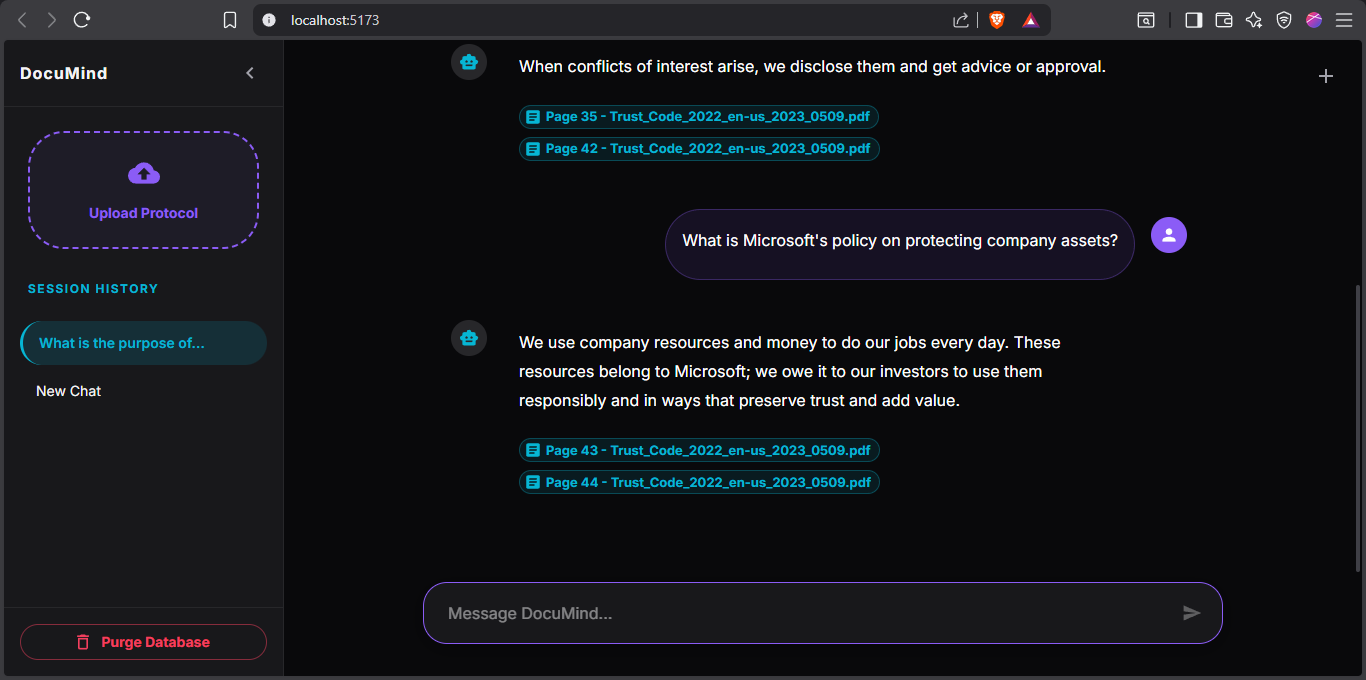
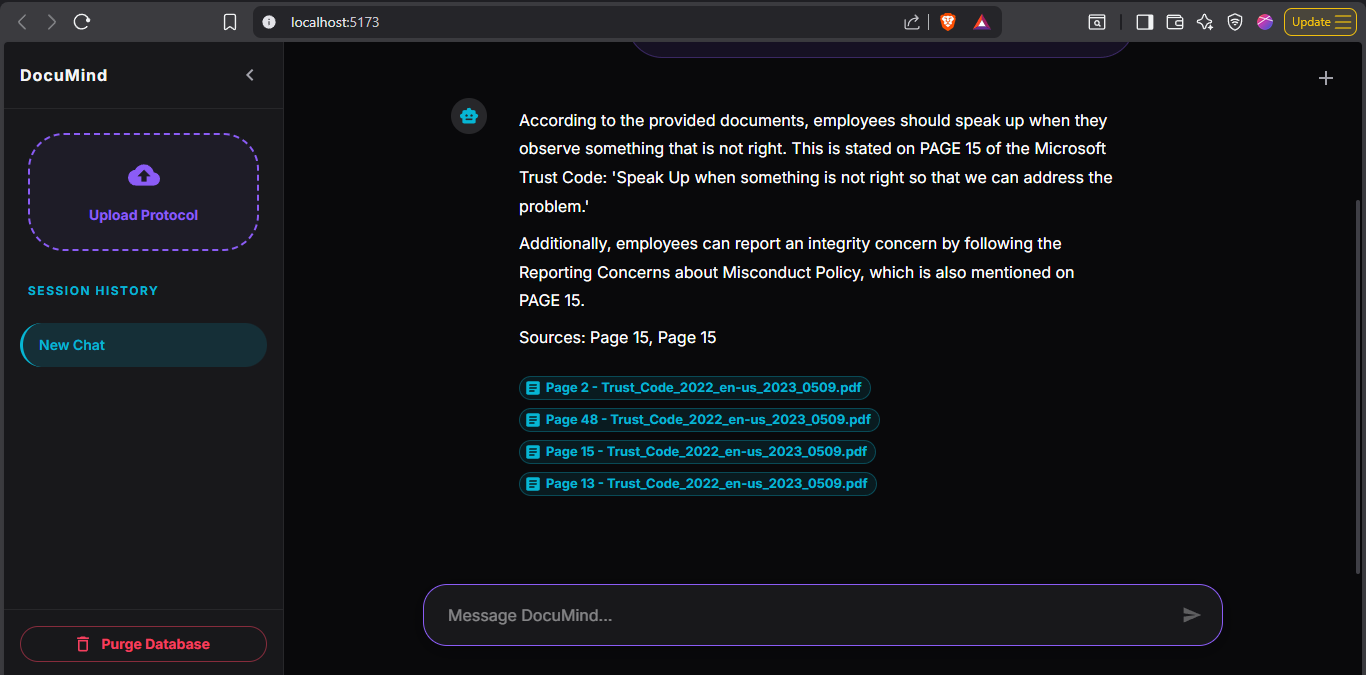
feat: enhance RAG guardrails, optimize k=4 retrieval, and finalize 6-image project showcase

diff --git a/documind_enterprise_backend/services/chat_engine.py b/documind_enterprise_backend/services/chat_engine.py
@@ -1,4 +1,3 @@
-
 import os
 from dotenv import load_dotenv
 from langchain_huggingface import HuggingFaceEmbeddings
@@ -7,7 +6,6 @@ from langchain_groq import ChatGroq
 from langchain_classic.chains import create_history_aware_retriever, create_retrieval_chain
 from langchain_classic.chains.combine_documents import create_stuff_documents_chain
 from langchain_core.prompts import ChatPromptTemplate, MessagesPlaceholder
-from langchain_core.messages import HumanMessage, AIMessage
 
 # Load the API keys (.env)
 load_dotenv()
@@ -23,7 +21,9 @@ def build_chat_chain():
         embedding=embeddings,
         namespace="corporate-policies-v1" 
     )
-    retriever = vectorstore.as_retriever(search_kwargs={"k": 2})
+    
+    # FIX 1: Increased 'k' to 4 so the AI has enough context to avoid hallucinating
+    retriever = vectorstore.as_retriever(search_kwargs={"k": 4})
 
     # 2. Connect to Groq/Llama-3 (Your Brain's Voice)
     llm = ChatGroq(model_name="llama-3.1-8b-instant", temperature=0)
@@ -43,20 +43,22 @@ def build_chat_chain():
     ])
     history_aware_retriever = create_history_aware_retriever(llm, retriever, contextualize_q_prompt)
 
-    # 4. Setup The Guardrails (Strict System Prompt)
+    # 4. Setup The Guardrails (The Fix!)
     system_prompt = (
-        "You are a strict, enterprise corporate assistant for DocuMind. "
-        "You must answer questions SOLELY based on the provided context below. "
-        "If the answer is not contained within the context, you MUST say exactly: "
-        "'I don't know' or 'This is outside my scope.' "
-        "Do NOT invent, guess, or use outside knowledge. "
-        "\n\nContext:\n{context}"
+        "You are DocuMind, an elite enterprise AI assistant. Your sole purpose is to analyze the provided corporate documents.\n\n"
+        "STRICT GUARDRAIL PROTOCOL:\n"
+        "1. ZERO HALLUCINATION: You must ONLY use the information explicitly found in the Context below. Do not use outside knowledge.\n"
+        "2. IF UNKNOWN: If the Context does not contain the answer, you must output EXACTLY: 'The provided document protocol does not contain specific information regarding this query.' Do not attempt to guess or apologize.\n"
+        "3. CONSOLIDATED CITATIONS: If you find the answer, provide a clear, professional response. Consolidate any page numbers at the very end of your response on a single new line like this: '\n\nSources: Page X, Page Y'. Do NOT scatter page numbers throughout the text.\n\n"
+        "Context:\n{context}"
     )
+    
     qa_prompt = ChatPromptTemplate.from_messages([
         ("system", system_prompt),
         MessagesPlaceholder("chat_history"),
         ("human", "{input}"),
     ])
+    
     question_answer_chain = create_stuff_documents_chain(llm, qa_prompt)
 
     # 5. Combine everything into one powerful AI Chain

diff --git a/documind_enterprise_backend/services/ingest_engine.py b/documind_enterprise_backend/services/ingest_engine.py
@@ -37,6 +37,13 @@ def ingest_document(file_path: str = "./data/corporate_policy.pdf"):
         documents = loader.load()
         logger.info(f"Successfully loaded {len(documents)} pages.")
 
+        # 4. PRE-PROCESSING: Inject page numbers into the text content
+        for doc in documents:
+            page_num = doc.metadata.get("page_number", "Unknown")
+            # We add a header to the text so the AI knows exactly which page it's reading
+            doc.page_content = f"--- SOURCE: PAGE {page_num} ---\n{doc.page_content}"
+
+
         # 4. Advanced Chunking Strategy
         logger.info("Chunking text to preserve context...")
         text_splitter = RecursiveCharacterTextSplitter(

diff --git a/README.md b/README.md
@@ -19,13 +19,21 @@ The "Midnight Aurora" theme provides a clean, focused environment for enterprise
 Successfully process and vectorize complex enterprise documents into the Pinecone database with real-time feedback.
 ![Data Ingestion](./assets/02-data-ingestion.png)
 
-### 03. Precision RAG with Paged Citations
-Get accurate answers with clickable citations that point directly to the source page, ensuring data transparency.
-![Citations](./assets/04-paged-citations.png)
+### 03. Interactive Chat Interface
+Engage with the uploaded documents using a responsive, real-time conversational interface.
+![Chat Interface](./assets/03-chat-interface.png)
 
-### 04. Advanced Database Control & Privacy
-Manage your vector index with security-first features like "Brain Wipe" and full database purging.
+### 04. Multi-Source Context Retrieval
+The advanced vector engine retrieves up to 4 distinct document chunks (k=4) per query. It synthesizes complex answers while maintaining strict zero-hallucination guardrails, providing consolidated, clickable page citations for total data transparency.
+![Paged Citations](./assets/04-paged-citations.png)
+
+### 05. Advanced Database Control
+Manage your vector index directly from the UI with security-first features like full database purging.
 ![Database Management](./assets/05-database-management.png)
+
+### 06. Session Privacy & Memory Wipe
+Instantly clear session history and context with a single click to ensure data privacy between different document queries.
+![Memory Wipe](./assets/06-memory-wipe.png)
 
 ---
 
